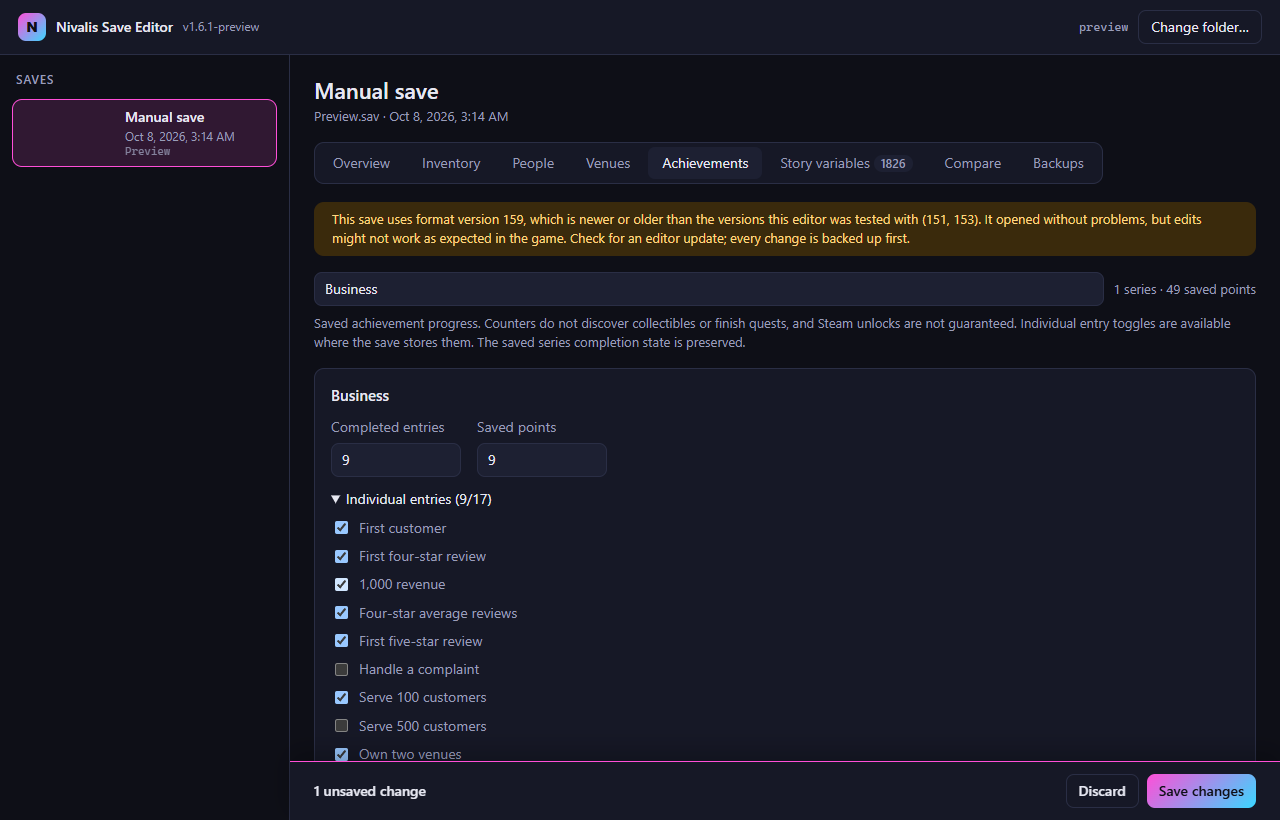
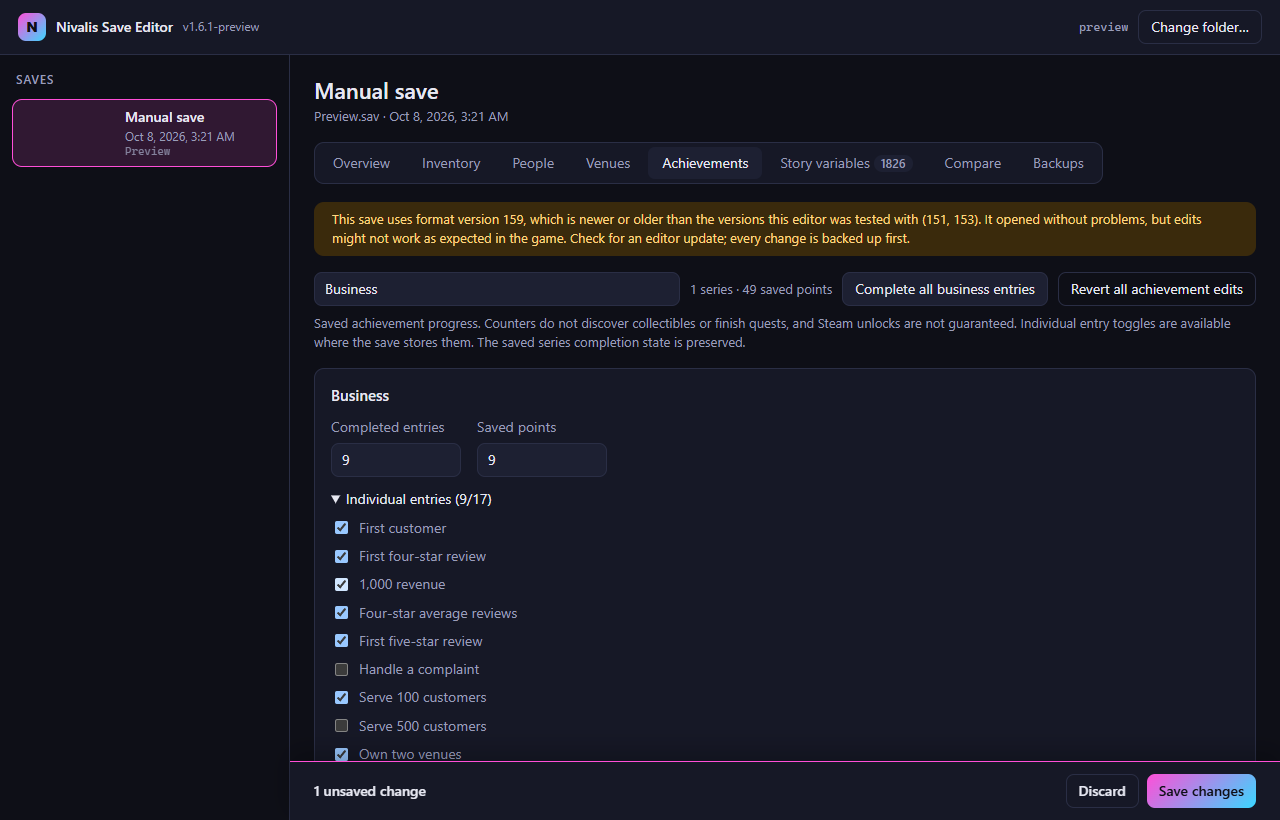
Choose single story outcomes and add bulk completion tools

Changed region(s): [[0.5312, 0.3049, 1.0, 0.3963]]

diff --git a/src/main.js b/src/main.js
@@ -4,7 +4,7 @@ import { open, ask, message } from '@tauri-apps/plugin-dialog';
 import {
   parseSave, summarize, listVariables, diffSaves, applyEdits, formatCredits, currentGameDay, xpForLevel, INT32_MAX, TESTED_VERSIONS,
   findVenue, averageReviewScore, VENUE_MAX_LEVEL, REVIEW_MAX_SCORE,
-  ACHIEVEMENT_NAMES, storyToggleEdits,
+  ACHIEVEMENT_NAMES, storyCompletionEdits, storyChoiceConflicts, STORY_CHOICE_GROUPS,
 } from '../core/index.js';
 import { areaName } from './areas.js';
 import {
@@ -432,8 +432,7 @@ function variablesShellHtml() {
     .map(([g, n]) => `<option value="${escapeHtml(g)}" ${f.group === g ? 'selected' : ''}>${escapeHtml(g || '(no group)')} (${n})</option>`).join('');
   return `
     <div class="toolbar">
-      <button class="btn" id="story-finish" ${state.current.save.tablesConsistent ? '' : 'disabled'}>Finish completion flags</button>
-      <button class="btn" id="story-enable-all" ${state.current.save.tablesConsistent ? '' : 'disabled'}>Enable all story toggles</button>
+      <button class="btn btn-primary" id="story-finish-all" ${state.current.save.tablesConsistent ? '' : 'disabled'}>Finish all story</button>
       <button class="btn btn-ghost" id="story-undo" ${state.storyBatch ? '' : 'disabled'}>Undo last bulk action</button>
     </div>
     <div class="toolbar">
@@ -457,16 +456,15 @@ function variablesShellHtml() {
     </div>`;
 }
 
-async function stageStoryToggles(completionOnly) {
-  const edits = storyToggleEdits(state.current.vars, { completionOnly });
+async function stageStoryToggles() {
+  const edits = storyCompletionEdits(state.current.vars);
   const changes = Object.entries(edits).filter(([name, value]) => currentValue(state.current.varIndex.get(name)) !== value);
   if (!changes.length) { toast('All matching toggles are already enabled.'); return; }
-  const warning = completionOnly
-    ? 'Sets boolean variables ending in Complete, Completed, Finished or Done to true. This does not run quests or set numeric quest steps.'
-    : 'Sets EVERY boolean story variable to true, including failure flags, mutually exclusive choices and world state. This can break quests and is not a guaranteed completed story.';
-  const preview = changes.slice(0, 12).map(([name]) => name).join('\n');
-  if (!(await ask(`${warning}\n\nStage ${changes.length} changes across all groups, regardless of search filters?\n\n${preview}${changes.length > 12 ? '\n…' : ''}\n\nYou can review, undo or discard them before saving.`, { title: completionOnly ? 'Finish completion flags' : 'Enable all story toggles', kind: 'warning' }))) return;
-  state.storyBatch = changes.map(([name]) => ({ name, before: currentValue(state.current.varIndex.get(name)) }));
+  const warning = 'Applies reviewed completion flags and selects exactly one outcome in each supported choice group, clearing its alternatives. Success wins over failure; other groups use the defaults listed below. Numeric quest steps and unsupported branches are unchanged. This does not run quests, and full in-game story completion has not been verified.';
+  const choices = STORY_CHOICE_GROUPS.filter((g) => g.choices.every((name) => name in edits)).map((g) => g.name).join('\n');
+  const preview = changes.slice(0, 12).map(([name, value]) => `${name} → ${value}`).join('\n');
+  if (!(await ask(`${warning}\n\nChosen outcomes:\n${choices}\n\nStage ${changes.length} changes across all groups, regardless of search filters?\n\n${preview}${changes.length > 12 ? '\n…' : ''}\n\nYou can review, undo or discard them before saving.`, { title: 'Finish all story', kind: 'warning' }))) return;
+  state.storyBatch = changes.map(([name, after]) => ({ name, before: currentValue(state.current.varIndex.get(name)), after }));
   for (const [name, value] of changes) setVariableEdit(name, value, { fromBatch: true });
   renderTab();
   toast(`${changes.length} story toggles staged. Review them with Changed only before saving.`);
@@ -499,7 +497,9 @@ function setAchievementEdit(guid, edit) {
 
 function achievementsShellHtml() {
   if (!state.current.save.achievements) return '<div class="card"><h2>Achievements unavailable</h2><p class="hint">This save does not contain a supported achievement section.</p></div>';
-  return `<div class="toolbar"><input id="achievement-search" type="search" placeholder="Search achievement series…" value="${escapeHtml(state.achievementSearch)}"><span id="achievement-count" class="subtle"></span></div>
+  return `<div class="toolbar"><input id="achievement-search" type="search" placeholder="Search achievement series…" value="${escapeHtml(state.achievementSearch)}"><span id="achievement-count" class="subtle"></span>
+    <button class="btn" id="achievement-business-complete">Complete all business entries</button>
+    <button class="btn btn-ghost" id="achievement-reset">Revert all achievement edits</button></div>
     <p class="hint">Saved achievement progress. Counters do not discover collectibles or finish quests, and Steam unlocks are not guaranteed. Individual entry toggles are available where the save stores them. The saved series completion state is preserved.</p>
     <div id="achievement-rows" class="achievement-grid"></div>`;
 }
@@ -520,6 +520,17 @@ function renderAchievementRows() {
       ${entry.flags.length ? `<details data-achievement-details="${entry.guid}" ${expanded.has(entry.guid) ? 'open' : ''}><summary>Individual entries (${value.completed}/${entry.flags.length})</summary>${value.flags.map((flag, i) => `<label class="check achievement-entry"><input type="checkbox" data-achievement="${entry.guid}" data-achievement-entry="${i}" ${flag ? 'checked' : ''}>${escapeHtml(achievementName(entry.guid) === 'Business' && entry.flags.length === BUSINESS_ENTRIES.length ? BUSINESS_ENTRIES[i] : `Entry ${i + 1}`)}</label>`).join('')}</details>` : '<p class="hint">This series stores counters rather than individual entry flags.</p>'}
       ${modified ? `<button class="link" data-achievement-revert="${entry.guid}">Revert series</button>` : ''}</div>`;
   }).join('') || '<p class="hint">No achievements match.</p>';
+}
+
+async function completeBusinessEntries() {
+  const entry = state.current.save.achievements?.entries.find((e) => e.guid === '8fa2c9dc-d919-44ef-8b85-5d530e012b24');
+  if (!entry || entry.flags.length !== BUSINESS_ENTRIES.length) { toast('This save does not contain the supported 17 business entries.', 'error'); return; }
+  const value = achievementValues(entry);
+  const missing = value.flags.filter((v) => !v).length;
+  if (!missing) { toast('All business entries are already complete.'); return; }
+  if (!(await ask(`Stage all ${missing} remaining business entries as complete?\n\nThis updates their saved flags, count and points. It does not grant venues, repay debts or guarantee Steam unlocks. Review or revert the changes before saving.`, { title: 'Complete business entries', kind: 'warning' }))) return;
+  setAchievementEdit(entry.guid, { flags: Array(BUSINESS_ENTRIES.length).fill(true), completed: BUSINESS_ENTRIES.length, earned: value.earned + missing });
+  renderAchievementRows();
 }
 
 function valueEditorHtml(v) {
@@ -797,6 +808,7 @@ function skillsHtml() {
   return `
     <section class="card">
       <h2>Skills</h2>
+      <div class="toolbar"><button class="btn" id="skills-max">Max all started skills</button><button class="btn btn-ghost" id="skills-reset">Revert all skill edits</button></div>
       <div class="venue-grid">${fields}</div>
       <p class="hint">Choosing a level sets the skill’s XP to the start of that level. A skill appears here once you have gained XP in it in the game.</p>
     </section>`;
@@ -808,6 +820,19 @@ function setSkillLevel(guid, level) {
   else state.edits.skills.set(guid, { xp: xpForLevel(skillInfo(guid).steps, level), level });
   renderPending();
   renderTab();
+}
+
+async function maxStartedSkills() {
+  const skills = state.current.save.skills.entries.filter((e) => skillInfo(e.guid)?.steps?.length
+    && (state.edits.skills.get(e.guid)?.level ?? e.level) < skillInfo(e.guid).steps.length - 1);
+  if (!skills.length) { toast('All supported started skills are already at their maximum level.'); return; }
+  if (!(await ask(`Stage the maximum level for ${skills.length} started skills?\n\n${skills.map((e) => `${skillName(e.guid)}: level ${skillInfo(e.guid).steps.length}`).join('\n')}\n\nXP is set from the skill catalog. Skills you have not started stay unavailable.`, { title: 'Max started skills', kind: 'info' }))) return;
+  for (const e of skills) {
+    const info = skillInfo(e.guid);
+    const level = info.steps.length - 1;
+    state.edits.skills.set(e.guid, { xp: xpForLevel(info.steps, level), level });
+  }
+  renderPending(); renderTab();
 }
 
 // ---------- diffs (shared by Compare and Backups) ----------
@@ -1042,6 +1067,11 @@ async function saveChanges() {
   const { entry, save } = state.current;
   const runningWarning = await gameRunningWarning(entry, 'The game keeps overwriting the autosave, so your changes would be lost.');
   if (runningWarning === null) return;
+  const conflicts = storyChoiceConflicts(state.current.vars.map((v) => ({ ...v, value: currentValue(v) })));
+  if (conflicts.length && state.edits.variables.size) {
+    await message(`These story choices have more than one outcome enabled:\n\n${conflicts.join('\n')}\n\nUse Finish all story to select one outcome, or disable the extra choices before saving.`, { title: 'Conflicting story choices', kind: 'error' });
+    return;
+  }
   let bytes;
   try {
     bytes = applyEdits(save, {
@@ -1077,12 +1107,15 @@ document.addEventListener('click', async (e) => {
   if (!t) return;
   if (t.dataset.path) await selectSave(t.dataset.path);
   else if (t.dataset.tab) { state.tab = t.dataset.tab; renderMain(); }
-  else if (t.id === 'story-finish') await stageStoryToggles(true);
-  else if (t.id === 'story-enable-all') await stageStoryToggles(false);
+  else if (t.id === 'story-finish-all') await stageStoryToggles();
+  else if (t.id === 'achievement-business-complete') await completeBusinessEntries();
+  else if (t.id === 'achievement-reset') { state.edits.achievements.clear(); renderPending(); renderAchievementRows(); }
+  else if (t.id === 'skills-max') await maxStartedSkills();
+  else if (t.id === 'skills-reset') { state.edits.skills.clear(); renderPending(); renderTab(); }
   else if (t.id === 'story-undo') {
-    for (const { name, before } of state.storyBatch ?? []) {
+    for (const { name, before, after } of state.storyBatch ?? []) {
       // Keep any manual edits made after the batch.
-      if (currentValue(state.current.varIndex.get(name)) === true) setVariableEdit(name, before);
+      if (currentValue(state.current.varIndex.get(name)) === after) setVariableEdit(name, before);
     }
     state.storyBatch = null; renderTab();
   }

diff --git a/test/progress.test.js b/test/progress.test.js
@@ -4,7 +4,7 @@ import { readFileSync, readdirSync, existsSync } from 'node:fs';
 import { dirname, join } from 'node:path';
 import { fileURLToPath } from 'node:url';
 import { parseAchievements, encodeAchievements, achievementWrites, achievementSnapshot,
-  storyToggleEdits, parseSave, applyEdits, diffSaves, roundTripCheck, listVariables, SaveFormatError, UnsupportedEditError } from '../core/index.js';
+  storyCompletionEdits, storyChoiceConflicts, STORY_CHOICE_GROUPS, parseSave, applyEdits, diffSaves, roundTripCheck, listVariables, SaveFormatError, UnsupportedEditError } from '../core/index.js';
 import { encodeString } from '../core/binary.js';
 
 const guid = '8fa2c9dc-d919-44ef-8b85-5d530e012b24';
@@ -45,17 +45,24 @@ test('achievement edits update total points and reject inconsistent flags and ov
   assert.throws(() => achievementWrites(section, { unknown: {} }), UnsupportedEditError);
 });
 
-test('story completion only targets completion booleans; broad action includes every toggle', () => {
+test('story completion sets reviewed flags, selects one outcome and ignores unknown branches', () => {
   const vars = [
-    { name: 'A.QuestComplete', kind: 'bool', value: false },
-    { name: 'B.Intro_Completed', kind: 'bool', value: true },
-    { name: 'C.QuestFailed', kind: 'bool', value: false },
-    { name: 'D.QuestStarted', kind: 'bool', value: false },
-    { name: 'E.QuestFinished', kind: 'int', value: 1 },
-    { name: 'F.Finished', kind: 'string', value: '' },
+    { name: 'MaGomba.PoisonQuestComplete', kind: 'bool', value: false },
+    { name: 'MaGomba.PoisonQuestFailed', kind: 'bool', value: true },
+    { name: 'Unknown.GoodEndingComplete', kind: 'bool', value: false },
+    { name: 'Unknown.BadEndingComplete', kind: 'bool', value: true },
+    { name: 'MiaJay.QuestComplete', kind: 'int', value: 1 },
+    { name: 'JohnDoe.QuestComplete', kind: 'string', value: '' },
   ];
-  assert.deepEqual(storyToggleEdits(vars, { completionOnly: true }), { 'A.QuestComplete': true, 'B.Intro_Completed': true });
-  assert.deepEqual(storyToggleEdits(vars), { 'A.QuestComplete': true, 'B.Intro_Completed': true, 'C.QuestFailed': true, 'D.QuestStarted': true });
+  assert.deepEqual(storyCompletionEdits(vars), { 'MaGomba.PoisonQuestComplete': true, 'MaGomba.PoisonQuestFailed': false });
+  const allChoices = STORY_CHOICE_GROUPS.flatMap((g) => g.choices.map((name) => ({ name, kind: 'bool', value: true })));
+  assert.equal(storyChoiceConflicts(allChoices).length, STORY_CHOICE_GROUPS.length);
+  const edits = storyCompletionEdits(allChoices);
+  const after = allChoices.map((v) => ({ ...v, value: edits[v.name] }));
+  assert.deepEqual(storyChoiceConflicts(after), []);
+  for (const group of STORY_CHOICE_GROUPS) assert.equal(group.choices.filter((name) => edits[name] === true).length, 1);
+  const partial = allChoices.filter((v) => v.name !== 'BenQuestVariables.ReehanFleshyKind');
+  assert.equal(Object.hasOwn(storyCompletionEdits(partial), 'BenQuestVariables.ReehanNeuralKind'), false);
 });
 
 const dir = process.env.NN_SAVE_DIR ?? join(dirname(fileURLToPath(import.meta.url)), '..', '..');
@@ -65,6 +72,9 @@ for (const file of files) {
     const source = readFileSync(join(dir, file));
     const save = parseSave(source);
     assert.ok(save.achievements);
+    assert.throws(() => applyEdits(save, { variables: {
+      'MaGomba.PoisonQuestComplete': true, 'MaGomba.PoisonQuestFailed': true,
+    } }), UnsupportedEditError);
     const entry = save.achievements.entries.find((e) => !e.flags.length);
     const business = save.achievements.entries.find((e) => e.flags.length);
     const flags = business.flags.map(Boolean);
@@ -75,12 +85,13 @@ for (const file of files) {
     items.push(structuredClone(items[0]));
     const edits = { achievements: { [entry.guid]: { completed: entry.completed + 1, earned: entry.earned + 1 },
       [business.guid]: { flags, completed: flags.filter(Boolean).length, earned: business.earned + (flags[0] ? 1 : -1) } },
-      variables: storyToggleEdits(listVariables(save)), inventory: { [key]: items } };
+      variables: storyCompletionEdits(listVariables(save)), inventory: { [key]: items } };
     const bytes = applyEdits(save, edits);
     const after = parseSave(bytes);
     assert.deepEqual(roundTripCheck(after), []);
     assert.equal(after.tablesConsistent, true);
-    assert.ok(after.tables[0].entries.filter((v) => v.kind === 'bool').every((v) => v.value));
+    assert.deepEqual(storyChoiceConflicts(listVariables(after)), []);
+    for (const v of listVariables(after)) assert.equal(v.value, Object.hasOwn(edits.variables, v.name) ? edits.variables[v.name] : listVariables(save).find((before) => before.name === v.name).value);
     assert.equal(after.achievements.entries.find((e) => e.guid === entry.guid).completed, entry.completed + 1);
     assert.equal(diffSaves(save, after).achievements.length, 2);
     assert.deepEqual(source, readFileSync(join(dir, file)));

diff --git a/core/story.js b/core/story.js
@@ -1,6 +1,52 @@
-// Explicit completion markers only; broad toggle enabling is a separate action.
-export function storyToggleEdits(variables, { completionOnly = false } = {}) {
-  return Object.fromEntries(variables.filter((v) => v.kind === 'bool'
-    && (!completionOnly || /(?:complete(?:d)?|finished|done)(?:\d+)?$/i.test(v.key ?? v.name.split('.').at(-1))))
-    .map((v) => [v.name, true]));
+// Reviewed completion flags from the observed schema. Unknown names are excluded;
+// suffix matching alone cannot establish mutually exclusive dialogue outcomes.
+export const STORY_COMPLETION_FLAGS = [
+  'Zaffer.BuyNeonComplete', 'Gladstone.CheeseQuestComplete', 'Gladstone.TrapQuestComplete',
+  'ClemHortelano.FirstFoodQuestComplete', 'ClemHortelano.GrapevineQuestComplete', 'ElaineMalloy.PhotosDone',
+  'MaGomba.GrowQuestComplete', 'MaGomba.PoisonQuestComplete', 'MaGomba.FirstGrowMissionComplete',
+  'MaGomba.SecondGrowMissionComplete', 'Bonaventure.ShipwreckQuestComplete', 'GanCoilson.QuestFinished',
+  'Deeala.Complete', 'HanzGrundown.PopularityBoostDone', 'HanzGrundown.BeefQuestComplete',
+  'Dotson.DannyComplete', 'MagzZunica.QuestComplete', 'HarperOsiris.QuestComplete',
+  'SalMagundi.StealHolosComplete', 'SalMagundi.TrashFusionPointComplete', 'SalMagundi.BuyTTFromLuminitaComplete',
+  'AlanFontus.Finished', 'CirianKrell.LevelUpQuestComplete', 'KaseyRemo.QuestComplete',
+  'FinnAmano.QuestComplete', 'SiloMills.QuestComplete', 'FredMatombo.AllDone', 'MasatoShima.QuestComplete',
+  'SalmaSmith.QuestComplete', 'BenQuestVariables.MasatoMizzyOneDone', 'BenQuestVariables.TravelToOdinsPubDone',
+  'Eldridge.GetPhotosComplete', 'MiaJay.QuestComplete', 'BouFriday.ThrowCoffeeComplete',
+  'NoeStalgia.FirstQuestComplete', 'JohnDoe.QuestComplete', 'MizzyWeiss.QuestComplete',
+  'ZiggyRaSand.QuestComplete', 'GlobalPlayerKnowledge.IntroComplete', 'GlobalPlayerKnowledge.ExpansionComplete',
+  'GlobalPlayerKnowledge.ChairQuestDone', 'ThaddeusQuest.Complete', 'PilkDane.Complete',
+  'TaylorHernz.ReenaDone', 'TaylorHernz.FinlayDone', 'TaylorHernz.RoxyDone',
+  ...['Silo', 'JohnDoe', 'Nabla', 'Mary', 'Magz', 'Mia', 'Rollo', 'Professor', 'Ziggy', 'Sanderson']
+    .map((name) => `ApartmentStaging.${name}Complete`),
+];
+
+// One default per supported choice group. Each group explicitly clears alternatives.
+// Never infer groups from arbitrary names such as HelpedAva/HelpedLochlainn.
+export const STORY_CHOICE_GROUPS = [
+  { name: 'Poison quest: success', selected: 'MaGomba.PoisonQuestComplete', choices: ['MaGomba.PoisonQuestComplete', 'MaGomba.PoisonQuestFailed'] },
+  { name: 'Steal holos: success', selected: 'SalMagundi.StealHolosComplete', choices: ['SalMagundi.StealHolosComplete', 'SalMagundi.StealHolosFailed'] },
+  { name: 'Reehan: fleshy kind', selected: 'BenQuestVariables.ReehanFleshyKind', choices: ['BenQuestVariables.ReehanFleshyKind', 'BenQuestVariables.ReehanNeuralKind'] },
+  { name: 'Ashwin: Bonaventure', selected: 'AshwinChopra.StoryQuestBonaventure', choices: ['AshwinChopra.StoryQuestBonaventure', 'AshwinChopra.StoryQuestDontCare'] },
+  ...[['ElaineMalloy', 3], ['MaGomba', 2], ['FauxterGlambeat', 2], ['MarcelleDeNuite', 3]].map(([person, count]) => ({
+    name: `${person}: coffee choice 1`, selected: `${person}.CoffeeChoice1`,
+    choices: Array.from({ length: count }, (_, i) => `${person}.CoffeeChoice${i + 1}`),
+  })),
+];
+
+export function storyCompletionEdits(variables) {
+  const byName = new Map(variables.map((v) => [v.name, v]));
+  const edits = {};
+  for (const name of STORY_COMPLETION_FLAGS) if (byName.get(name)?.kind === 'bool') edits[name] = true;
+  for (const group of STORY_CHOICE_GROUPS) {
+    // Partial/new layouts must not guess whether an absent alternative was renamed.
+    if (!group.choices.every((name) => byName.get(name)?.kind === 'bool')) continue;
+    for (const name of group.choices) edits[name] = name === group.selected;
+  }
+  return edits;
+}
+
+export function storyChoiceConflicts(variables) {
+  const byName = new Map(variables.map((v) => [v.name, v]));
+  return STORY_CHOICE_GROUPS.filter((group) => group.choices.filter((name) => byName.get(name)?.value === true).length > 1)
+    .map((group) => group.name);
 }

diff --git a/cli/nnsave.js b/cli/nnsave.js
@@ -4,7 +4,7 @@ import { readFileSync, writeFileSync, copyFileSync, existsSync } from 'node:fs';
 import {
   parseSave, summarize, listVariables, diffSaves, applyEdits, roundTripCheck, formatCredits, currentGameDay, xpForLevel,
   findVenue, averageReviewScore,
-  ACHIEVEMENT_NAMES, storyToggleEdits,
+  ACHIEVEMENT_NAMES, storyCompletionEdits, storyChoiceConflicts,
 } from '../core/index.js';
 
 const { items: CATALOG, skills: SKILLS, venues: VENUES } = JSON.parse(readFileSync(new URL('../src/data/items.json', import.meta.url), 'utf8'));
@@ -48,7 +48,7 @@ const USAGE = `Usage:
   nnsave venues <file.sav>
   nnsave edit <file.sav> [--money <credits>] [--set Name.Var=value]... [--add-item <container>:<item>:<qty>]...
               [--skill <name>=<level>]... [--venue <venue>.(level|served|stars)=<n>]...
-              [--finish-story-flags | --enable-story-toggles] (-o <out.sav> | --in-place)`;
+              [--finish-story] (-o <out.sav> | --in-place)`;
 
 const load = (path) => parseSave(new Uint8Array(readFileSync(path)));
 const show = (v) => (typeof v === 'string' ? JSON.stringify(v) : String(v));
@@ -172,15 +172,14 @@ ${c.key} (${c.kind}${c.storage ? `, ${c.storage}` : ''}, ${c.items.length} items
         else if (a === '--venue') venueSpecs.push(rest[++i]);
         else if (a === '-o') out = rest[++i];
         else if (a === '--in-place') inPlace = true;
-        else if (a === '--finish-story-flags') storyMode = true;
-        else if (a === '--enable-story-toggles') storyMode = false;
+        else if (a === '--finish-story' || a === '--finish-story-flags') storyMode = true;
         else throw new Error(`Unknown option ${a}`);
       }
       if (!out && !inPlace) throw new Error('Specify -o <out.sav> or --in-place');
       const save = load(path);
       if (storyMode !== undefined) {
-        console.log('WARNING: Story flag edits do not run quests; enabling all toggles includes failure flags and conflicting choices.');
-        edits.variables = { ...storyToggleEdits(listVariables(save), { completionOnly: storyMode }), ...edits.variables };
+        console.log('Reviewed completion flags and one outcome per supported choice group staged. This does not run quests or guarantee full story completion.');
+        edits.variables = { ...storyCompletionEdits(listVariables(save)), ...edits.variables };
       }
       if (!save.header.versionTested) console.log(`WARNING: save version ${save.header.version} is untested; the game may not load the edited save correctly`);
       for (const spec of skillLevels) {
@@ -216,6 +215,8 @@ ${c.key} (${c.kind}${c.storage ? `, ${c.storage}` : ''}, ${c.items.length} items
           else items.push({ guid, stacks: [stack] });
         }
       }
+      const conflicts = storyChoiceConflicts(listVariables(save).map((v) => ({ ...v, value: Object.hasOwn(edits.variables, v.name) ? edits.variables[v.name] : v.value })));
+      if (Object.keys(edits.variables).length && conflicts.length) throw new Error(`Conflicting story choices: ${conflicts.join(', ')}`);
       const edited = applyEdits(save, edits);
       const target = out ?? path;
       if (inPlace) {

diff --git a/core/save.js b/core/save.js
@@ -22,6 +22,7 @@ import { parseInventory, encodeInventoryBody, validateInventoryItems } from './i
 import { parseSkills, SKILLS_KEY } from './skills.js';
 import { findVenue, venueWrites } from './venues.js';
 import { parseAchievements, achievementWrites, achievementSnapshot, encodeAchievements } from './achievements.js';
+import { storyChoiceConflicts } from './story.js';
 
 export { SaveFormatError, UnsupportedEditError };
 
@@ -241,6 +242,9 @@ export function applyEdits(save, edits) {
 
   const varEdits = Object.entries(edits.variables ?? {});
   if (varEdits.length) {
+    const conflicts = storyChoiceConflicts(save.tables[0].entries.map((v) => ({ ...v,
+      value: Object.hasOwn(edits.variables, v.name) ? edits.variables[v.name] : v.value })));
+    if (conflicts.length) throw new UnsupportedEditError(`Conflicting story choices: ${conflicts.join(', ')}`);
     if (!save.tablesConsistent) throw new UnsupportedEditError('Variable tables disagree in this save; refusing to edit variables');
     const indexByName = new Map(save.tables[0].entries.map((e, i) => [e.name, i]));
     for (const [name, value] of varEdits) {

diff --git a/README.md b/README.md
@@ -6,7 +6,8 @@ A small desktop editor for **Nivalis Nights** save files (`.sav`), built with Ta
 - Edit **money**
 - **Skills**: set the level of each skill you have started (Barter, Boat, Cooking, Farming, Fishing, Serving, Managing)
 - Browse, search and edit the game's **1,800+ story variables** (flags and numbers: relationships, venue levels, quest steps, …)
-- **Story bulk actions**: finish explicit completion flags, or enable every boolean story toggle, with a change preview and undo before saving. The broad action includes failure flags and conflicting choices; neither action runs quests or guarantees a finished story.
+- **Finish all story**: one button applies reviewed completion flags and picks one outcome per supported choice group, clearing competing alternatives. Success wins over known failures; coffee choices use option 1, Reehan uses the fleshy route, and Ashwin uses Bonaventure. Preview and undo are available before saving. Numeric quest endpoints and unsupported branches are not guessed; full in-game completion has not been verified.
+- **Bulk completion tools**: complete all 17 saved business achievement entries, or max all started skills using their catalog XP thresholds; both are staged, reviewable and revertible before saving.
 - **Achievements**: browse and search 11 named achievement series, edit saved counters and points, and toggle the 17 individually stored business entries. Edits use the normal verified save and backup workflow, update total saved points and appear in comparisons. Steam unlocks and in-game completion have not been verified.
 - **Inventory**: view and edit the items in your inventory, your venues' storage, fridges and furniture, and vendor stock; add any of 1,300+ items, change quantities and freshness
 - **Compare** two saves to see which variables a quest step changed, and copy values across
@@ -59,9 +60,7 @@ npm run cli -- achievements <save.sav>
 npm run cli -- venues <save.sav>
 npm run cli -- edit  <save.sav> --money 2500.00 --set GameState.Debt=0 --skill Boat=3 -o out.sav
 npm run cli -- edit  <save.sav> --venue Venue_NoodleBar.level=5 --venue Venue_NoodleBar.served=600 --venue Venue_NoodleBar.stars=5 -o out.sav
-npm run cli -- edit  <save.sav> --finish-story-flags -o out.sav
-# Advanced: enables every boolean, including failures and conflicting choices
-npm run cli -- edit  <save.sav> --enable-story-toggles -o out.sav
+npm run cli -- edit  <save.sav> --finish-story -o out.sav
 ```
 
 ## Layout
@@ -123,7 +122,7 @@ Freshness is counted in 8-hour units and drops at 00:00, 08:00 and 16:00; 0 mean
 
 **Achievements** (`03H1F65F-148C-9E66-GHQE-4109P1286Q17`). Structural round-trips and edits verified against two local version **159** saves; the existing untested-version warning remains because no in-game loading was tested. Layout: `int32 totalPoints, int32 seriesCount`, then per series `string guid, int32 completedEntriesCount, int32 points, byte isCompleted, int32 singularEntryCount, byte[] singularEntriesSave`. Field names were checked in the installed game's IL2CPP metadata; series names and business entry ordering were checked against its asset definitions. The earlier `55F0A877-…` section contains GUID/boolean records and is left untouched. Counter edits retain the saved series completion byte. No records are inserted or resized; missing sections show an unavailable message, malformed sections refuse editing. Total points change by the delta in edited series points.
 
-**Bulk story actions.** “Finish completion flags” selects boolean names ending in Complete, Completed, Finished or Done (optionally followed by digits). “Enable all story toggles” selects all booleans. Both operate across all groups regardless of the current search filters, stage edits to both variable tables, preserve numbers/text, and require the normal backed-up save action. Undo restores the prior staged values while preserving subsequent manual changes. There is no universal quest-completion recipe: quest steps, relationships, world entities and mutually exclusive outcomes cannot be inferred from toggles alone.
+**Story completion preset.** `core/story.js` defines an explicit list of reviewed completion flags and eight supported choice groups. “Finish all story” sets those flags and chooses a single default in each fully present group, setting every competing option to false. It operates across all groups regardless of search filters, stages edits to both variable tables, preserves numbers/text, and requires the normal backed-up save action. The UI and CLI reject competing options within these groups when saving story edits. Undo restores the prior staged values while preserving subsequent manual changes, including failure flags cleared by the preset. The preset does not infer numeric quest endpoints or unsupported branches. There is no proven universal quest-completion recipe; seamless in-game story completion and Steam unlocks remain unverified.
 
 **Venues** (`VenueAreaGhost`, one Ghost block per venue). The level, customers served and reviews live here; the `Venue_<name>.Level`, `.CustomersServed`, `.ReviewScore` and `.ReviewAmount` story variables are copies the game rewrites from this record when a save loads (it only does so for some venues, so the copies of NPC-run venues can be stale). Editing only the variables therefore has no effect in the game. The record is the block that contains the venue's GUID and has this shape:
 

diff --git a/MODLOG.md b/MODLOG.md
@@ -11,3 +11,5 @@ Verified on 2026-10-08 against two local version 159 save files and the user's i
 - Tests prove exact byte re-encoding, same-size achievement edits, preservation through inventory size changes, synchronized story mirrors, rejection of malformed/invalid edits, and recovery of original achievement values.
 - Browser verification uses a read-only Tauri mock backed by a local save: search, entry edit/revert, bulk confirmation/cancellation, undo/discard, filtered views and a 960px viewport.
 - In-game loading, Steam achievement unlocks, completing series bonuses and a universal finished-story state remain unverified. The editor preserves series completion bytes and never guesses numeric quest endpoints.
+
+Story preset refinement: removed blanket boolean enabling at the user's request. The final preset uses explicit completion flags and eight declared choice groups: two success/failure pairs, Reehan fleshy/neural, Ashwin Bonaventure/don't care, and four coffee choice groups. It picks one named default and clears alternatives. Choice flags and coffee instruction names were found in the installed asset data; the grouping/default policy is an editor policy, not a proof of full quest graph completion. Tests enforce a single outcome per supported group and preservation of unsupported variables. Unknown quest graphs cannot be called seamlessly completed without an in-game oracle.
